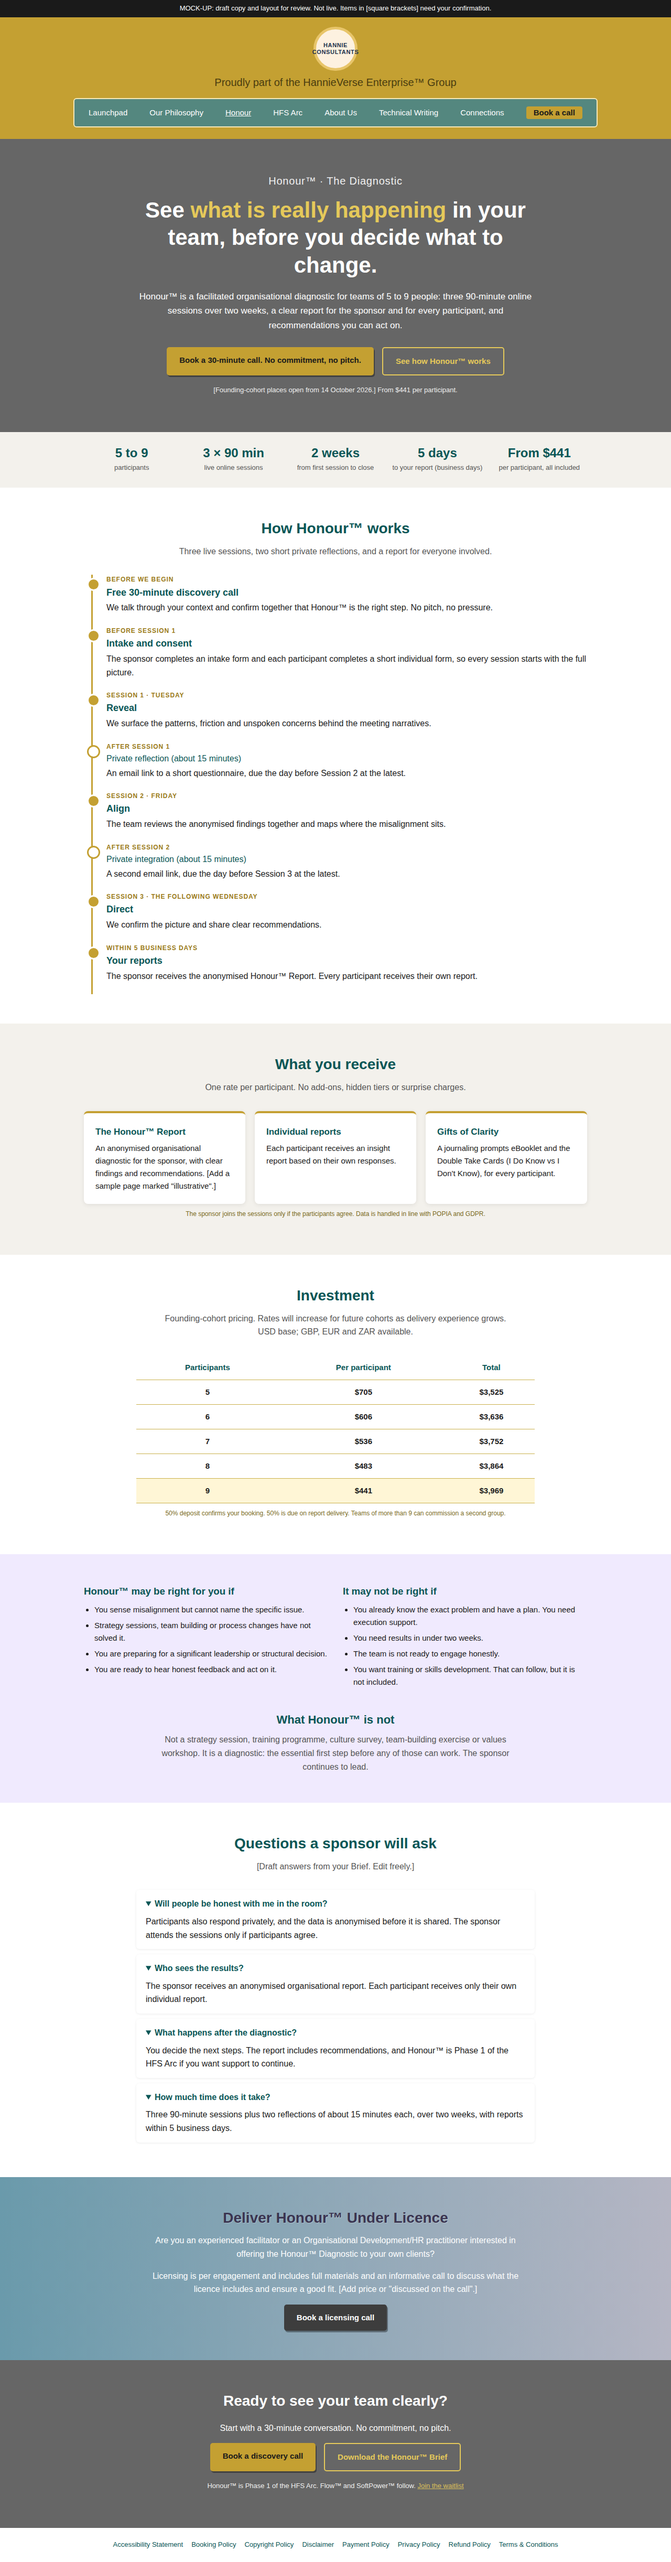
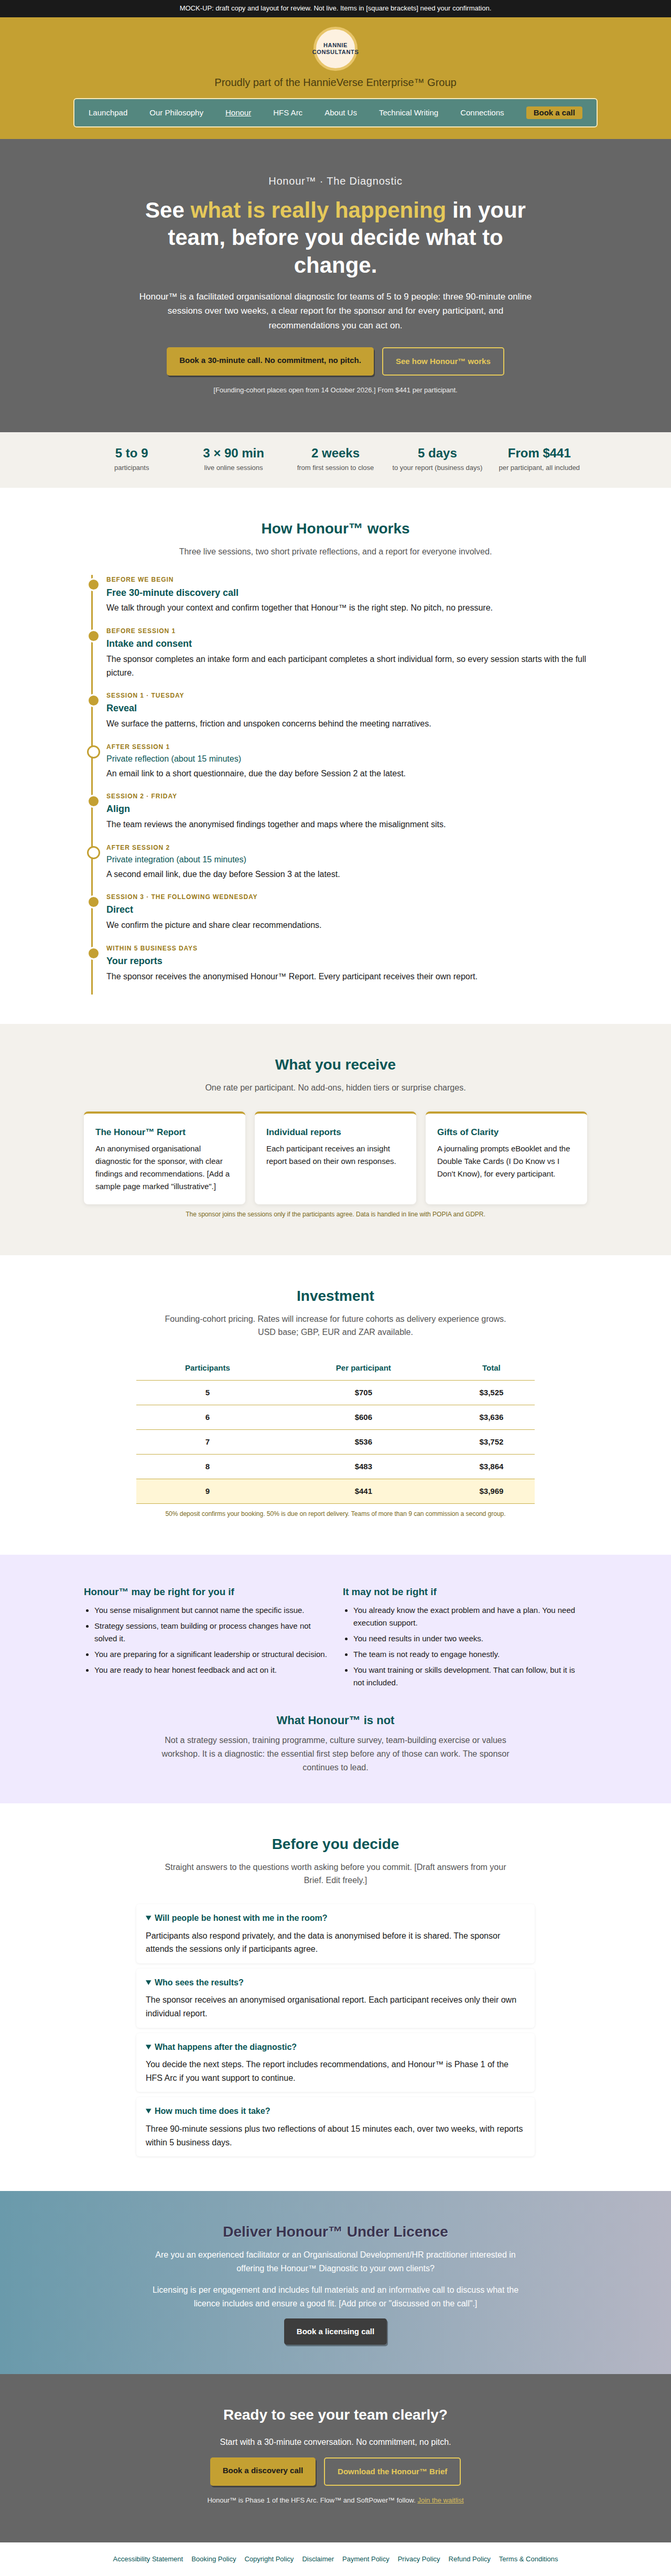
Rename FAQ heading in Honour mock-up
Claude-Session: https://claude.ai/code/session_01VGNF22YqMhet38GotcC9rv

diff --git a/qa/honour-page-mockup.html b/qa/honour-page-mockup.html
@@ -188,8 +188,8 @@
 
 <section>
   <div class="wrap">
-    <h2>Questions a sponsor will ask</h2>
-    <p class="sub">[Draft answers from your Brief. Edit freely.]</p>
+    <h2>Before you decide</h2>
+    <p class="sub">Straight answers to the questions worth asking before you commit. [Draft answers from your Brief. Edit freely.]</p>
     <details><summary>Will people be honest with me in the room?</summary><p>Participants also respond privately, and the data is anonymised before it is shared. The sponsor attends the sessions only if participants agree.</p></details>
     <details><summary>Who sees the results?</summary><p>The sponsor receives an anonymised organisational report. Each participant receives only their own individual report.</p></details>
     <details><summary>What happens after the diagnostic?</summary><p>You decide the next steps. The report includes recommendations, and Honour&trade; is Phase 1 of the HFS Arc if you want support to continue.</p></details>
